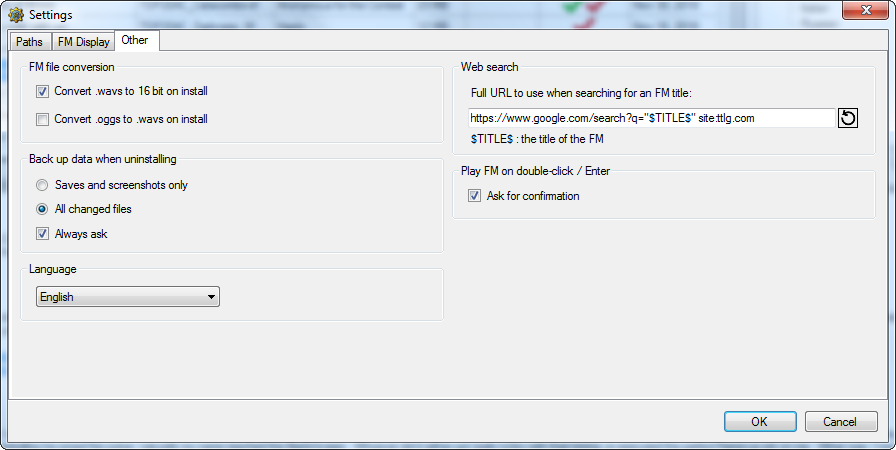
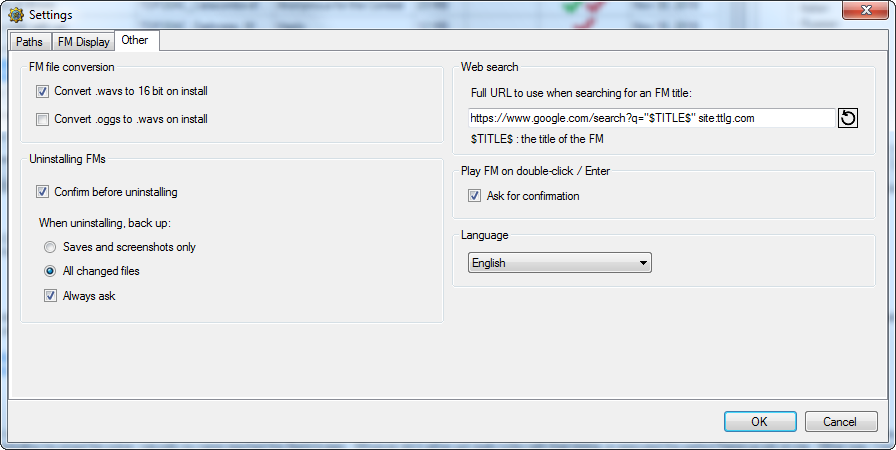
Update doc

diff --git a/doc/AngelLoader documentation.html b/doc/AngelLoader documentation.html
@@ -161,11 +161,11 @@ In addition to clicking the zoom buttons, the readme can also be zoomed by press
 <h4>Play FM button</h4>
 Click this button to play the currently selected FM. If the FM is not installed, it will be installed automatically first.
 
-<h4>Install / Uninstall FM button</h4>
-If the currently selected FM is not installed, this button will install it; otherwise, it will uninstall it.
-
 <h4>Play original game button</h4>
 Click this button to bring up a list of supported games. Only games that you've <a href="#paths_to_game_exes">provided a path to</a> will be enabled; others will be grayed out. Clicking on one of these games will let you play it without loading an FM.
+
+<h4>Install / Uninstall FM button</h4>
+If the currently selected FM is not installed, this button will install it; otherwise, it will uninstall it.
 
 <h4><a name="scan_all_fms_button" />Scan all FMs button</h4>
 This allows you to scan all the FMs in the list. Clicking it will bring up a window where you can choose what to scan for.
@@ -387,6 +387,9 @@ Depending on your setup, .wav files that are higher than 16 bit may cause audio 
 Quoted from the FMSel manual:<br>
 <i>The game </i>can<i> play OGG files but it can under some circumstance cause short hiccups, on less powerful computers, performance heavy missions or with large OGG files. In such cases it might help to convert them to WAV files during installation</i>.<br>
 <b>This option has no effect for Thief: Deadly Shadows.</b>
+
+<h4>Confirm before uninstalling</h4>
+If this is enabled, you will be prompted for confirmation when uninstalling an FM.
 
 <h4><a name="settings_backup" />Back up data when uninstalling</h4>
 When an FM is uninstalled, you will normally want to back up its saves and screenshots so they can be restored if you install it again. You can also choose to back up all changed files, in which case the backup will also include all files in the installed folder that have been added, removed, or modified as compared to the files in the archive. This is useful if you have added <a href="#dml_patches">.dml patches</a> to the FM, or made other modifications such as creating or modifying an fm.cfg file, fixing readables, etc. Because AngelLoader aims to be patch-friendly, this option is the default. You can also choose to always be asked if you want to back up data when uninstalling an FM.
